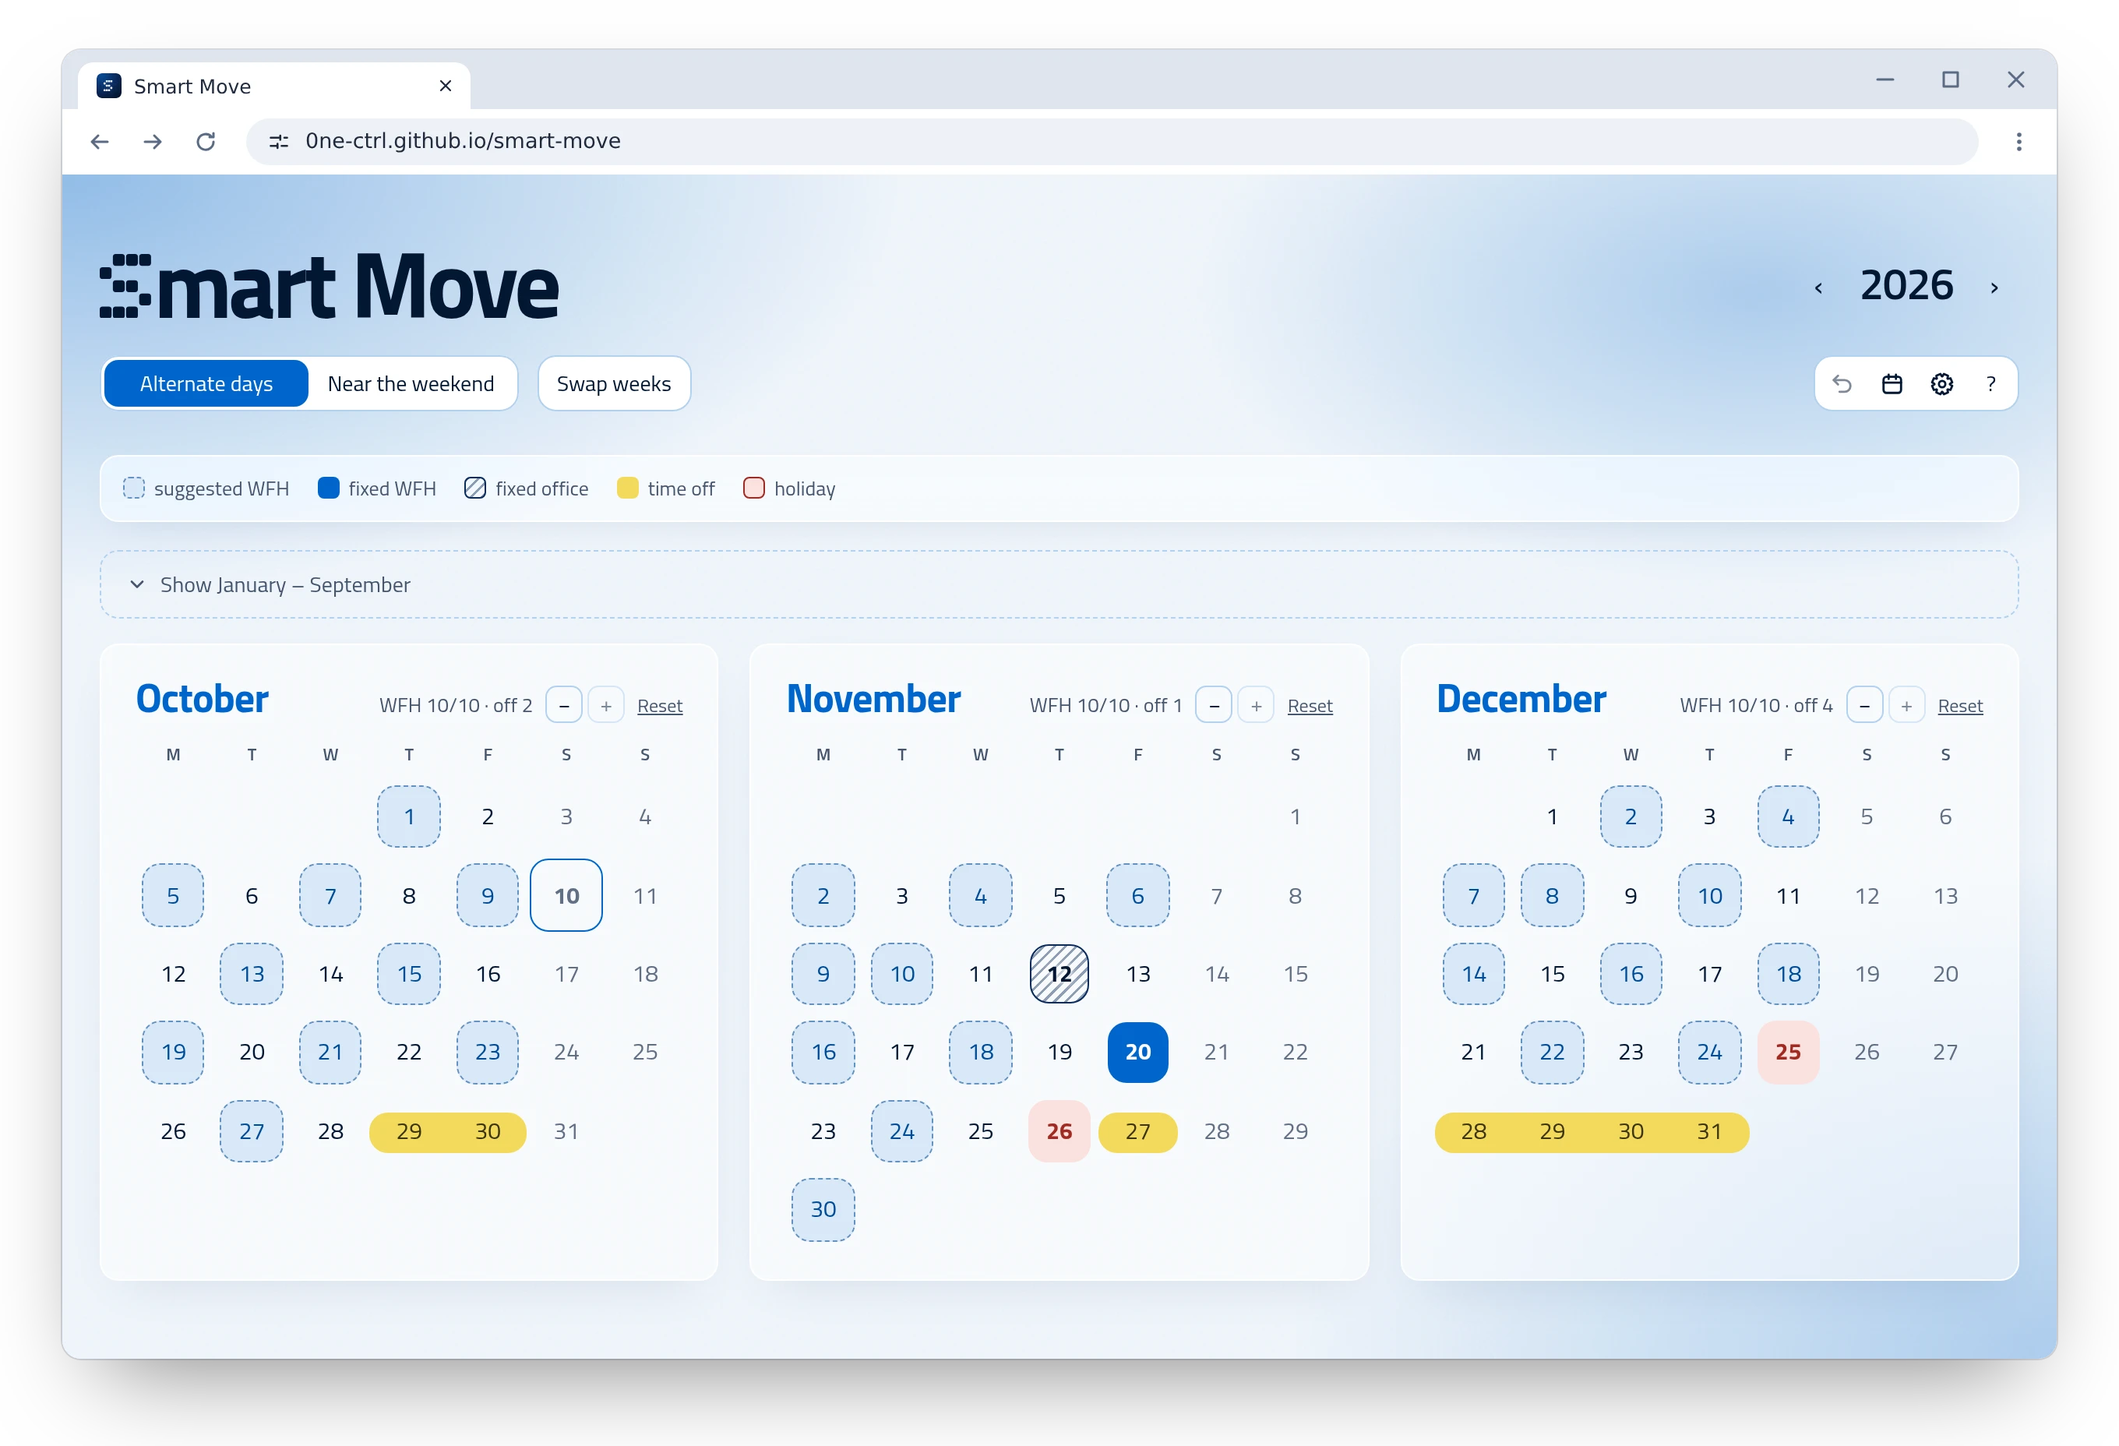
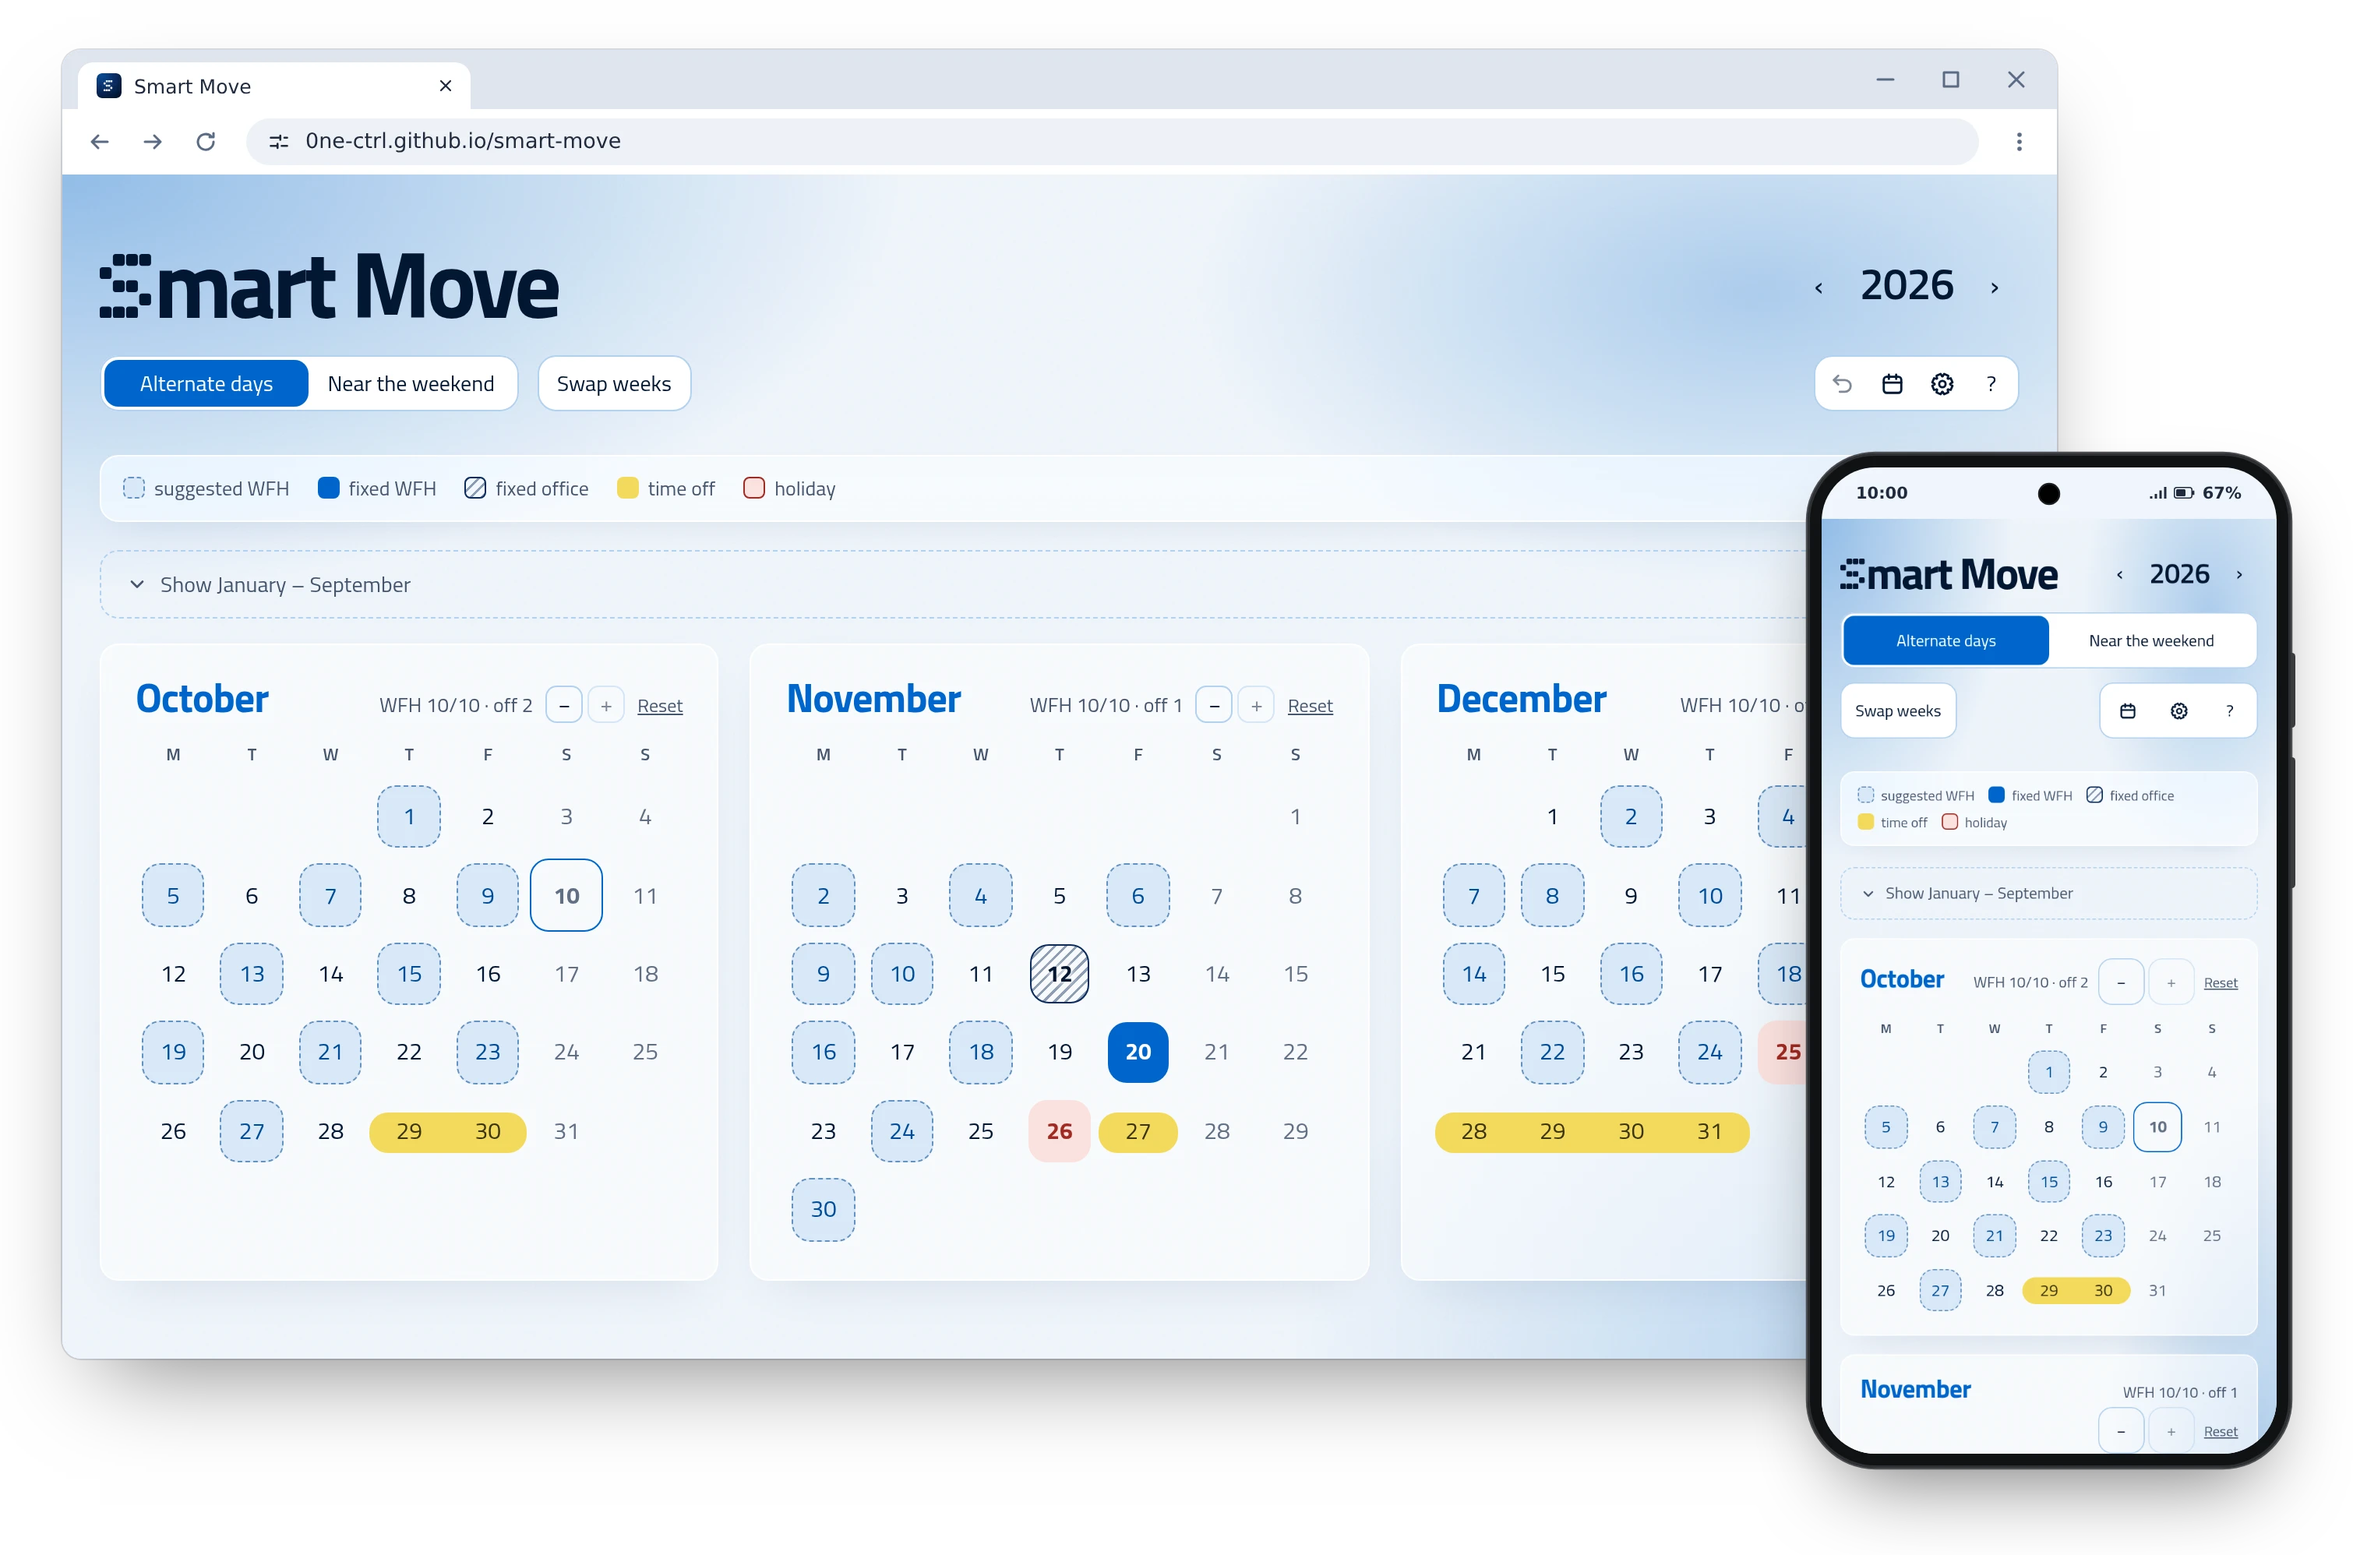
README: computer e telefono in un'immagine sola, niente immagini affiancate al testo
Su telefono la GIF e lo screenshot del telefono, affiancati al testo, lo stringevano fino a renderlo illeggibile: ora la GIF è centrata e il telefono sta nell'immagine in cima, sopra l'angolo della finestra del browser.

diff --git a/scripts/frame.html b/scripts/frame.html
@@ -1,6 +1,6 @@
 <!doctype html>
 <meta charset="utf-8">
-<!-- Cornice per gli screenshot del README, usata da screenshots.mjs: frame('browser'|'phone', 'light'|'dark', immagine, larghezza) -->
+<!-- Cornice per gli screenshot del README, usata da screenshots.mjs: frame('light'|'dark', schermata e larghezza del desktop, schermata e larghezza del telefono) -->
 <style>
   html, body { margin: 0; background: transparent; font-family: system-ui, sans-serif; }
   #f { display: inline-block; padding: 32px 40px 56px; }
@@ -31,6 +31,13 @@
     background: #000; box-shadow: 0 0 0 1.5px #1c1d21; }
   .status { position: absolute; top: 12px; left: 12px; right: 12px; height: 44px; padding: 0 30px; display: flex;
     align-items: center; justify-content: space-between; color: #fff; font-size: 14px; font-weight: 600; }
+  /* tema chiaro: barra di stato nel theme-color chiaro, testo scuro */
+  .phone.light .screen { background: #f0f6fc; }
+  .phone.light .status { color: #1f2a3d; }
+
+  /* telefono rimpicciolito sopra l'angolo in basso a destra della finestra */
+  .combo { position: relative; padding: 0 150px 70px 0; }
+  .combo .phone { position: absolute; right: 0; bottom: 0; zoom: .75; }
   .right { display: flex; align-items: center; gap: 6px; } /* batteria al 67%: piccolo easter egg */
 </style>
 <div id="f"></div>
@@ -38,20 +45,21 @@
   // icona a tratto 16×16 (frecce, ricarica, finestra)
   const icon = (d, size = 16) => `<svg width="${size}" height="${size}" viewBox="0 0 16 16" fill="none" stroke="currentColor" stroke-width="1.5" stroke-linecap="round" stroke-linejoin="round"><path d="${d}"/></svg>`;
   // Disegna la cornice attorno all'immagine e aspetta che sia caricata
-  window.frame = (kind, theme, src, w) => {
-    const img = `<img src="${src}" width="${w}">`;
-    f.innerHTML = kind === 'phone'
-      ? `<div class="phone"><div class="screen">${img}</div><div class="btn" style="top:170px;height:64px"></div><div class="btn" style="top:260px;height:112px"></div>
-          <div class="hole"></div><div class="status"><span>10:00</span>
-          <span class="right"><svg width="16" height="14" viewBox="0 0 16 14" fill="#fff"><path d="M1 12h2v-2H1zM5 12h2V8H5zM9 12h2V5H9zM13 12h2V2h-2z"/></svg>
-          <svg width="18" height="14" viewBox="0 0 18 14" fill="#fff"><rect x=".5" y="2.5" width="15" height="9" rx="2" fill="none" stroke="#fff"/><rect x="2" y="4" width="8" height="6" rx="1"/><rect x="16" y="5" width="1.6" height="4" rx=".8"/></svg>67%</span></div></div>`
-      : `<div class="browser ${theme}">
-          <div class="tabs"><div class="tab"><img src="../icons/icon.svg" alt=""><span>Smart Move</span>${icon('M4 4l8 8M12 4l-8 8', 12)}</div>
-            <div class="win">${icon('M3 8h10')}${icon('M3.5 3.5h9v9h-9z')}${icon('M3.5 3.5l9 9M12.5 3.5l-9 9')}</div></div>
-          <div class="tool">${icon('M13 8H3M7 4L3 8l4 4')}${icon('M3 8h10M9 4l4 4-4 4')}${icon('M13 8a5 5 0 1 1-1.5-3.5M13 2.5V5h-2.5')}
-            <div class="url">${icon('M2 5h7M2 11h5M12 5h2M10 11h4M9 3.5v3M7 9.5v3', 14)}0ne-ctrl.github.io/smart-move</div>
-            <svg width="16" height="16" viewBox="0 0 16 16" fill="currentColor"><circle cx="8" cy="3.5" r="1.4"/><circle cx="8" cy="8" r="1.4"/><circle cx="8" cy="12.5" r="1.4"/></svg></div>
-          ${img}</div>`;
-    return f.querySelector('img').decode();
+  const phone = (theme, img) => `<div class="phone ${theme}"><div class="screen">${img}</div><div class="btn" style="top:170px;height:64px"></div><div class="btn" style="top:260px;height:112px"></div>
+      <div class="hole"></div><div class="status"><span>10:00</span>
+      <span class="right"><svg width="16" height="14" viewBox="0 0 16 14" fill="currentColor"><path d="M1 12h2v-2H1zM5 12h2V8H5zM9 12h2V5H9zM13 12h2V2h-2z"/></svg>
+      <svg width="18" height="14" viewBox="0 0 18 14" fill="currentColor"><rect x=".5" y="2.5" width="15" height="9" rx="2" fill="none" stroke="currentColor"/><rect x="2" y="4" width="8" height="6" rx="1"/><rect x="16" y="5" width="1.6" height="4" rx=".8"/></svg>67%</span></div></div>`;
+  const browser = (theme, img) => `<div class="browser ${theme}">
+      <div class="tabs"><div class="tab"><img src="../icons/icon.svg" alt=""><span>Smart Move</span>${icon('M4 4l8 8M12 4l-8 8', 12)}</div>
+        <div class="win">${icon('M3 8h10')}${icon('M3.5 3.5h9v9h-9z')}${icon('M3.5 3.5l9 9M12.5 3.5l-9 9')}</div></div>
+      <div class="tool">${icon('M13 8H3M7 4L3 8l4 4')}${icon('M3 8h10M9 4l4 4-4 4')}${icon('M13 8a5 5 0 1 1-1.5-3.5M13 2.5V5h-2.5')}
+        <div class="url">${icon('M2 5h7M2 11h5M12 5h2M10 11h4M9 3.5v3M7 9.5v3', 14)}0ne-ctrl.github.io/smart-move</div>
+        <svg width="16" height="16" viewBox="0 0 16 16" fill="currentColor"><circle cx="8" cy="3.5" r="1.4"/><circle cx="8" cy="8" r="1.4"/><circle cx="8" cy="12.5" r="1.4"/></svg></div>
+      ${img}</div>`;
+  // Disegna browser e telefono attorno alle due schermate e aspetta che siano caricate
+  window.frame = (theme, src, w, src2, w2) => {
+    const img = (s, w) => `<img src="${s}" width="${w}">`;
+    f.innerHTML = `<div class="combo">${browser(theme, img(src, w))}${phone(theme, img(src2, w2))}</div>`;
+    return Promise.all([...f.querySelectorAll('img')].map(i => i.decode()));
   };
 </script>

diff --git a/CLAUDE.md b/CLAUDE.md
@@ -52,7 +52,7 @@ Pezzi principali:
 Per i flussi nel browser (onboarding con anteprima, menu del giorno, annulla, giorno fisso, export .ics/.json, lingua e paese, tastiera, anno e mesi passati, file importato ostile) c'è `node scripts/smoke.mjs` (sull'host, nessuna dipendenza): una riga PASS/FAIL per controllo, esce con codice 1 se qualcosa fallisce o se la pagina scrive errori in console. Usa Chromium in flatpak (`org.chromium.Chromium`) headless pilotato via DevTools da `scripts/chromium.mjs` (lo stesso di `screenshots.mjs`: `launch()` → `cdp()`, `js()`, `onEvent()`, `close()`), con la pagina servita da `python3 -m http.server`. `--dump-dom` non va bene, perché in quella modalità il `<dialog>` non emette l'evento `close`. Quando aggiungi un flusso in `app.js`, aggiungi un controllo lì.
 
 ## Screenshot del README
-`node scripts/screenshots.mjs` (sull'host, nessuna dipendenza) rifà tutte le immagini di `docs/` e `docs/en/`: i ritagli `menu.png`, `export.png`, `onboarding.png` e le schermate intere in cornice (`desktop-light|dark.webp` in una finestra di browser generico in stile Chrome, `mobile.webp` in un telefono Android generico con barra di stato a parte (batteria al 67%), disegnate da `scripts/frame.html`, WebP con angoli trasparenti). Avvia da solo `python3 -m http.server` e il Chromium flatpak (tramite `scripts/chromium.mjs`; altro Chromium: `CHROME=…`), con data finta 10/10/2026 e dati di esempio fissi, e alla fine li chiude. Da rilanciare dopo ogni modifica visibile dell'interfaccia. `scripts/` non fa parte del sito (non va in `FILES`).
+`node scripts/screenshots.mjs` (sull'host, nessuna dipendenza) rifà tutte le immagini di `docs/` e `docs/en/`: i ritagli `menu.png`, `export.png`, `onboarding.png` e le schermate intere in cornice (`desktop-light|dark.webp`: una finestra di browser generico in stile Chrome con sopra l'angolo in basso a destra un telefono Android generico al 75%, con barra di stato a parte (batteria al 67%), entrambi nel tema del file; disegnate da `scripts/frame.html`, WebP con angoli trasparenti). Nel README niente immagini affiancate al testo (`align="right"`): su telefono stringono il testo fino a renderlo illeggibile, quindi solo immagini centrate. Avvia da solo `python3 -m http.server` e il Chromium flatpak (tramite `scripts/chromium.mjs`; altro Chromium: `CHROME=…`), con data finta 10/10/2026 e dati di esempio fissi, e alla fine li chiude. Da rilanciare dopo ogni modifica visibile dell'interfaccia. `scripts/` non fa parte del sito (non va in `FILES`).
 
 ## Video promo (`video/`)
 Progetto Remotion a parte (React, ha le sue dipendenze; in git senza `node_modules`, `out` e `public/sfx`): trailer `SmartMovePromo`, verticale 1080×1920, ~32 s (17 battute), montato sulla musica: 1 battito = 14 fotogrammi (`video/src/timing.ts`, da tenere uguale a `BEAT` e `BARS` in `scripts/suoni.mjs`; `Root.tsx` usa `END`; ogni composizione esiste anche in inglese, `SmartMovePromoEN`/`SmartMoveDemoEN`, con tutte le scritte in `video/src/i18n.ts`). Scene: domanda → drop con logo → demo con un solo calendario fisso, in 5 momenti da 2 battute (limiti scelti con −/+ e smart che cadono, ferie, due schemi, giorno fisso in ufficio, export in calendario) → chiusura. `video/src/plan.ts` importa la logica da `../../js/plan.js` (`allowJs` in `video/tsconfig.json`) e aggiunge solo i tipi (anche di `withWeekly`), `monthPlan` e `pickOrder`. Se cambi la firma di `planMonth` o `withWeekly`, aggiorna il cast dei tipi lì. I comandi Node vanno lanciati nel distrobox `remotion-box`:

diff --git a/README.en.md b/README.en.md
@@ -15,14 +15,12 @@ Free, no account. Your data stays in your browser.
 
 <picture>
   <source media="(prefers-color-scheme: dark)" srcset="docs/en/desktop-dark.webp">
-  <img src="docs/en/desktop-light.webp" alt="Smart Move calendar with suggested WFH days, time off and public holidays">
+  <img src="docs/en/desktop-light.webp" alt="Smart Move calendar on desktop and phone, with suggested WFH days, time off and public holidays">
 </picture>
 
 </div>
 
 ## In 20 seconds
-
-<a href="docs/trailer-en.mp4"><img src="docs/demo-en.gif" width="300" align="right" alt="Animated demo: limits, time off, two patterns, fixed office day, calendar export"></a>
 
 Monday? Wednesday? The long weekend? Max 3 a week, 10 a month, the week split between two months, Thanksgiving, bank holidays, your summer vacation…
 
@@ -30,9 +28,9 @@ Smart Move takes care of all of it and hands you a ready-made calendar: **dashed
 
 Every change recalculates the whole year in an instant.
 
-▶ **[Watch the full trailer](docs/trailer-en.mp4)**
+<p align="center"><a href="docs/trailer-en.mp4"><img src="docs/demo-en.gif" width="300" alt="Animated demo: limits, time off, two patterns, fixed office day, calendar export"></a></p>
 
-<br clear="right">
+▶ **[Watch the full trailer](docs/trailer-en.mp4)**
 
 ## What it does
 
@@ -60,15 +58,11 @@ Export a month as an `.ics` file and import it into Google Calendar, Outlook or 
 
 ## And also
 
-<img src="docs/en/mobile.webp" width="320" align="right" alt="Smart Move on a phone">
-
 - Public holidays built in for Italy, the United States, the United Kingdom (England & Wales), Germany, France, Spain and Greece, picked from a drop-down (or none). For the US: the six holidays nearly all employers observe (New Year's Day, Memorial Day, July 4, Labor Day, Thanksgiving, Christmas). Regional and local holidays, or any extra day off: mark them as time off.
 - English or Italian: language and country start from your browser's and can be changed in the first-run guide or in the "?" guide.
 - Designed for phones too, and **installable as an app** ("Add to Home Screen"): it works offline.
 - Light and dark theme, with subtle sounds you can turn off.
 - No server: everything stays in your browser. Use **Export / Import** (in the settings, the gear icon) to move your data to another device.
-
-<br clear="right">
 
 ## Development
 

diff --git a/README.md b/README.md
@@ -15,14 +15,12 @@ Gratis, senza account. I dati restano nel tuo browser.
 
 <picture>
   <source media="(prefers-color-scheme: dark)" srcset="docs/desktop-dark.webp">
-  <img src="docs/desktop-light.webp" alt="Calendario di Smart Move con gli smart proposti, le ferie e i festivi">
+  <img src="docs/desktop-light.webp" alt="Calendario di Smart Move su computer e telefono, con gli smart proposti, le ferie e i festivi">
 </picture>
 
 </div>
 
 ## In 20 secondi
-
-<a href="docs/trailer.mp4"><img src="docs/demo.gif" width="300" align="right" alt="Demo animata: limiti, ferie, due schemi, giorno fisso, export in calendario"></a>
 
 Lunedì? Mercoledì? Il ponte? Max 3 a settimana, 10 al mese, la settimana a cavallo tra due mesi, Pasquetta, il 4 ottobre, le ferie ad agosto…
 
@@ -30,9 +28,9 @@ Smart Move tiene conto di tutto e ti dà un calendario già pronto: i giorni **t
 
 Ogni modifica ricalcola l'anno intero in un attimo.
 
-▶ **[Guarda il trailer completo](docs/trailer.mp4)**
+<p align="center"><a href="docs/trailer.mp4"><img src="docs/demo.gif" width="300" alt="Demo animata: limiti, ferie, due schemi, giorno fisso, export in calendario"></a></p>
 
-<br clear="right">
+▶ **[Guarda il trailer completo](docs/trailer.mp4)**
 
 ## Cosa fa
 
@@ -60,15 +58,11 @@ Esporta un mese in un file `.ics` e importalo in Google Calendar, Outlook o Appl
 
 ## E poi
 
-<img src="docs/mobile.webp" width="320" align="right" alt="Smart Move su telefono">
-
 - Festività nazionali già escluse: Italia (compresi Pasquetta e il 4 ottobre dal 2026), Stati Uniti, Regno Unito, Germania, Francia, Spagna e Grecia, da un menu a tendina. Il patrono lo segni come ferie.
 - In italiano o in inglese: lingua e paese partono da quelli del browser e si cambiano nella guida iniziale o nella guida "?".
 - Pensata anche per il telefono, e **installabile come app** ("Aggiungi a schermata Home"): funziona anche offline.
 - Tema chiaro e scuro, con suoni discreti che puoi spegnere.
 - Niente server: tutto resta nel browser. Con **Esporta / Importa** (nelle impostazioni, l'icona a ingranaggio) porti i dati su un altro dispositivo.
-
-<br clear="right">
 
 ## Sviluppo
 
